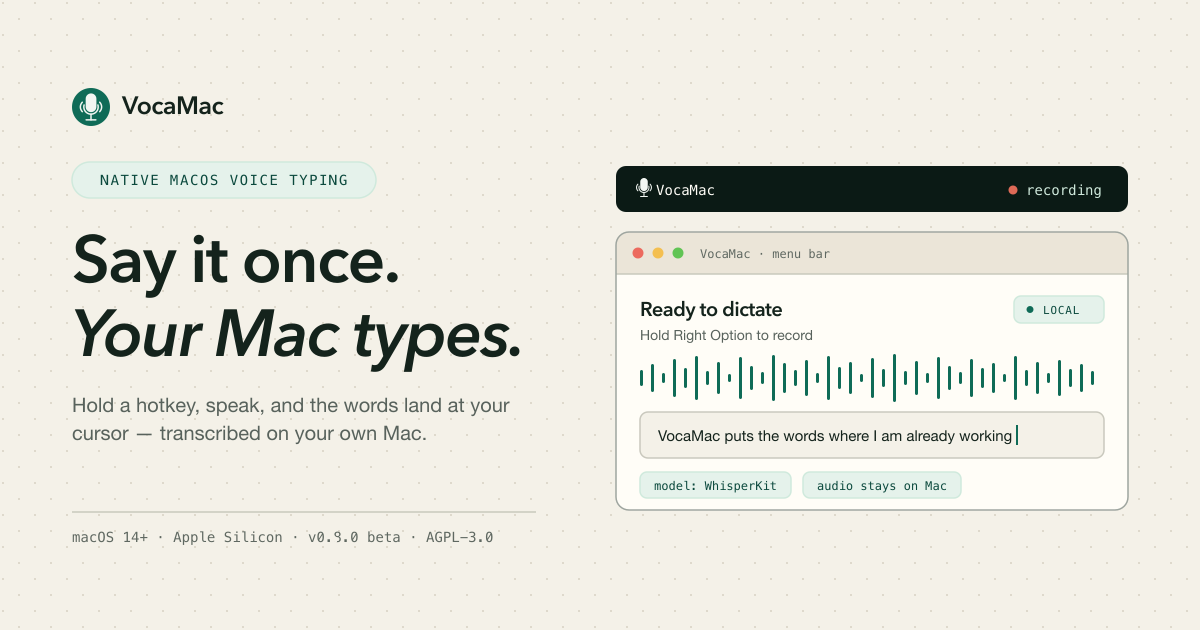
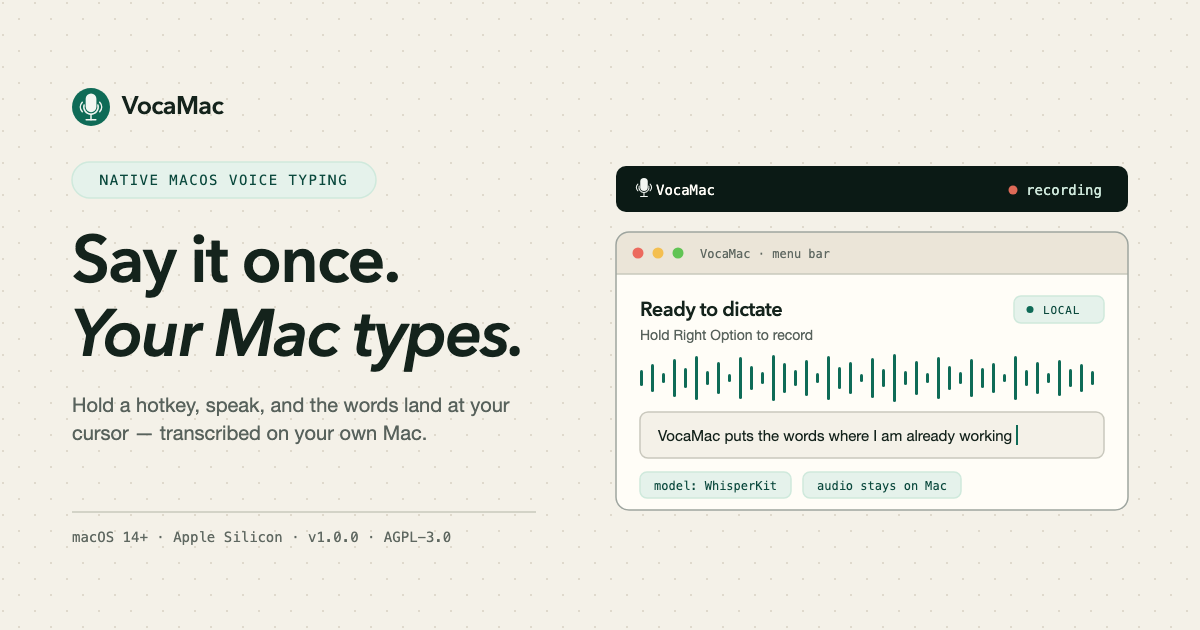
docs: catch remaining VocaMac beta labels

diff --git a/brand/promo/catalog/src/portrait.html b/brand/promo/catalog/src/portrait.html
@@ -196,7 +196,7 @@
       <p class="kicker">voca / macos</p>
       <div class="official">VocaMac</div>
     </div>
-    <span class="chip soft">beta</span>
+    <span class="chip teal">available now</span>
   </div>
   <h1 class="display">vocamac</h1>
   <p class="line">Hold a hotkey, speak, and text appears at the cursor.</p>
@@ -385,7 +385,7 @@
       <div>
         <div class="dname">VocaMac</div>
         <p class="dline">Hold a hotkey, speak, and text appears at the cursor.</p>
-        <div class="dmeta"><span class="chip soft">beta</span><span class="chip">macOS 14+</span><span class="mono sm muted">vocamac.com</span></div>
+        <div class="dmeta"><span class="chip teal">available now</span><span class="chip">macOS 14+</span><span class="mono sm muted">vocamac.com</span></div>
       </div>
       <figure class="qr mini"><img src="qr/qr-mac.png" alt=""><figcaption>scan</figcaption></figure>
     </article>

diff --git a/brand/promo/catalog/src/landscape.html b/brand/promo/catalog/src/landscape.html
@@ -64,7 +64,7 @@
     <p class="kicker">voca / macos</p>
     <div style="display:flex;justify-content:space-between;align-items:center">
       <div class="official">VocaMac</div>
-      <span class="chip soft">beta</span>
+      <span class="chip teal">available now</span>
     </div>
     <h1 class="display">vocamac</h1>
     <p class="line">Hold a hotkey, speak, and text appears at the cursor.</p>
@@ -223,7 +223,7 @@
     </article>
     <article class="dcard">
       <div class="dname">VocaMac</div>
-      <span class="chip soft" style="margin:6px 0">beta</span>
+      <span class="chip teal" style="margin:6px 0">available now</span>
       <figure class="qr mini"><img src="qr/qr-mac.png" alt=""><figcaption>vocamac.com</figcaption></figure>
     </article>
     <article class="dcard">

diff --git a/press/macos-drafts.md b/press/macos-drafts.md
@@ -1,8 +1,8 @@
-# macOS tip drafts (VocaMac v0.9.0)
+# macOS tip drafts (VocaMac v1.0.0)
 
 VocaPress owns these. Draft only. Do not send unless Jatin says send. From vocahq@gmail.com as Jatin. Introduce as Jatin, creator and maintainer. Do not add a name or email closer; the VocaHQ Gmail signature already has the mark and hello@vocahq.com.
 
-Facts used (vocamac.com, product.toml, README, v0.9.0 notes, VocaMac agent 24 Aug 2026): VocaMac is Beta v0.9.0. Not Stable. macOS 14+ Apple Silicon only. No Intel build. AGPL-3.0. Menu bar, no Dock icon. Default hotkey hold Right Option, release to transcribe. Double-tap toggle is in the README. Transcript inserts at the cursor via accessibility. Secure fields and some apps can refuse insertion. Clipboard is saved and restored around injection; do not claim the clipboard is never used. Permissions: Microphone, Accessibility, Input Monitoring. Engines in 0.9.0 (site + product.toml): WhisperKit/Core ML, Parakeet, Apple Speech (macOS 26+), sherpa-onnx (Moonshine, SenseVoice, GigaAM, Canary). First WhisperKit download from Hugging Face. After a model is local, transcription can run without sending audio to a cloud. No Voca account. No Voca-hosted cloud. No iCloud dictation claim. PRODUCT.md VocaMac row still only says WhisperKit / Core ML; for tips cite the site/release catalog, not that short row as the full list. Homebrew cask description "powered by WhisperKit" is stale; do not use it as the engine list. 17 pin-able languages in Settings. Do not say 99+. Custom vocabulary and translate-to-English are WhisperKit-only. Do not say vocabulary works on Parakeet, Apple Speech, or sherpa. 0.9.0 release notes also shipped text snippets and a dictation-tone picker (ten pairs + Off; Voca default for new installs). Those are not on the /features page; cite the release if you mention them. Headless file CLI exists; not the reviewer everyday path; it does not auto-download models. Recording overlay exists. Homebrew from the site: brew tap vocahq/vocamac && brew trust vocahq/vocamac && brew install --cask vocamac (cask is 0.9.0, macos :sonoma). DMG: VocaMac-0.9.0-arm64.dmg (~99 MB), Developer ID signed and notarized, https://github.com/VocaHQ/vocamac/releases/tag/v0.9.0. Gateway is optional self-hosted compute and is not on-device. No feature parity. Screenshots: https://vocamac.com/screenshots. Discord: https://discord.gg/t6muquAJbm. Do not use empty "honest/genuine/real" modifiers (TidBITS).
+Facts used (vocamac.com, product.toml, README, v1.0.0 notes, status updated 23 Sep 2026): VocaMac is v1.0.0, the first stable release (Available now). macOS 14+ Apple Silicon only. No Intel build. AGPL-3.0. Menu bar, no Dock icon. Default hotkey hold Right Option, release to transcribe. Double-tap toggle is in the README. Transcript inserts at the cursor via accessibility. Secure fields and some apps can refuse insertion. Clipboard is saved and restored around injection; do not claim the clipboard is never used. Permissions: Microphone, Accessibility, Input Monitoring. Engines in 0.9.0 (site + product.toml): WhisperKit/Core ML, Parakeet, Apple Speech (macOS 26+), sherpa-onnx (Moonshine, SenseVoice, GigaAM, Canary). First WhisperKit download from Hugging Face. After a model is local, transcription can run without sending audio to a cloud. No Voca account. No Voca-hosted cloud. No iCloud dictation claim. PRODUCT.md VocaMac row still only says WhisperKit / Core ML; for tips cite the site/release catalog, not that short row as the full list. Homebrew cask description "powered by WhisperKit" is stale; do not use it as the engine list. 17 pin-able languages in Settings. Do not say 99+. Custom vocabulary and translate-to-English are WhisperKit-only. Do not say vocabulary works on Parakeet, Apple Speech, or sherpa. 0.9.0 release notes also shipped text snippets and a dictation-tone picker (ten pairs + Off; Voca default for new installs). Those are not on the /features page; cite the release if you mention them. Headless file CLI exists; not the reviewer everyday path; it does not auto-download models. Recording overlay exists. Homebrew from the site: brew tap vocahq/vocamac && brew trust vocahq/vocamac && brew install --cask vocamac (cask is 0.9.0, macos :sonoma). DMG: VocaMac-0.9.0-arm64.dmg (~99 MB), Developer ID signed and notarized, https://github.com/VocaHQ/vocamac/releases/tag/v1.0.0. Gateway is optional self-hosted compute and is not on-device. No feature parity. Screenshots: https://vocamac.com/screenshots. Discord: https://discord.gg/t6muquAJbm. Do not use empty "honest/genuine/real" modifiers (TidBITS).
 
 Every tip must say the code is open source (AGPL-3.0) and that people already file bugs, feature requests, and PRs. Do not invent star counts.
 
@@ -29,17 +29,17 @@ The problem I had: I type all day and I did not want my speech going to a vendor
 
 I use it every day on this Mac, plus the Linux, Windows, and phone siblings. Linux is further along. The code is open source under AGPL-3.0, and people already file bugs, request features, and send PRs.
 
-v0.9.0 is Beta. Hold Right Option, or toggle. WhisperKit / Core ML by default, plus Parakeet, Apple Speech on macOS 26+, and a few CPU-only ONNX models. 17 pin-able languages. Custom vocabulary is WhisperKit-only. Text snippets and a tone picker. Needs Microphone, Accessibility, and Input Monitoring.
+v1.0.0 is the first stable release. Hold Right Option, or toggle. WhisperKit / Core ML by default, plus Parakeet, Apple Speech on macOS 26+, and a few CPU-only ONNX models. 43 pin-able languages. Custom vocabulary guides Whisper, Apple Speech, and Parakeet. Text snippets and a tone picker. Needs Microphone, Accessibility, and Input Monitoring.
 
 What it is not: Intel. App Store. A ChatGPT wrapper. A guarantee that every secure field will accept insertion.
 
-App: VocaMac 0.9.0
+App: VocaMac 1.0.0
 Developer: Jatin Malik / VocaHQ
 Requires: macOS 14+ Apple Silicon
 Price: free (AGPL-3.0)
-Status: Beta, shipping
+Status: Available now (stable, v1.0.0)
 Site: https://vocamac.com
-Install: brew tap vocahq/vocamac && brew install --cask vocamac, or https://github.com/VocaHQ/vocamac/releases/tag/v0.9.0
+Install: brew tap vocahq/vocamac && brew install --cask vocamac, or https://github.com/VocaHQ/vocamac/releases/tag/v1.0.0
 Reviewer license: not needed, the app is free
 Screenshots: https://vocamac.com/screenshots
 Source: https://github.com/VocaHQ/vocamac
@@ -49,19 +49,19 @@ Source: https://github.com/VocaHQ/vocamac
 ### MacStories
 To: viticci@macstories.net, voorhees@macstories.net
 
-Subject: VocaMac v0.9.0, on-device dictation (no paid-review ask)
+Subject: VocaMac v1.0.0, on-device dictation (no paid-review ask)
 
 Hi,
 
 I'm Jatin, creator and maintainer of VocaMac. You only write about apps you have used. I am not offering money.
 
-VocaMac is a menu-bar dictation app, Beta v0.9.0, for Apple Silicon on macOS 14+. Hold Right Option, talk, and text lands at the cursor. Models run on the Mac (WhisperKit / Core ML, plus a few others in 0.9.0). No Voca account. After a local model is downloaded, the audio stays on that machine. I use it every day.
+VocaMac is a menu-bar dictation app, v1.0.0, for Apple Silicon on macOS 14+. Hold Right Option, talk, and text lands at the cursor. Models run on the Mac (WhisperKit / Core ML, plus a few others in 1.0.0). No Voca account. After a local model is downloaded, the audio stays on that machine. I use it every day.
 
 Homebrew or a signed, notarized DMG. Open source, AGPL-3.0. People already open issues and PRs. Secure fields can still refuse insertion. Linux is the mature sibling; Windows and phone are betas too.
 
 - Site: https://vocamac.com
 - Screenshots: https://vocamac.com/screenshots
-- Release: https://github.com/VocaHQ/vocamac/releases/tag/v0.9.0
+- Release: https://github.com/VocaHQ/vocamac/releases/tag/v1.0.0
 - Family: https://vocahq.com
 
 ---
@@ -82,7 +82,7 @@ I use it every day on Apple Silicon Macs (macOS 14+). I also use the Linux relea
 
 - Site: https://vocamac.com
 - Screenshots: https://vocamac.com/screenshots
-- Release: https://github.com/VocaHQ/vocamac/releases/tag/v0.9.0
+- Release: https://github.com/VocaHQ/vocamac/releases/tag/v1.0.0
 - Family: https://vocahq.com
 
 ---
@@ -90,19 +90,19 @@ I use it every day on Apple Silicon Macs (macOS 14+). I also use the Linux relea
 ### 9to5Mac
 To: tips@9to5mac.com
 
-Subject: Indie tip: VocaMac v0.9.0, on-device Mac dictation
+Subject: Indie tip: VocaMac v1.0.0, on-device Mac dictation
 
 Hi,
 
 I'm Jatin, creator and maintainer of VocaMac. Indie App Spotlight / news tip, if that is still the right bucket.
 
-I wanted a Mac dictation app that did not need an Apple ID tied to iCloud dictation, and did not send audio to a vendor. VocaMac is that: menu bar, Apple Silicon, macOS 14+, Beta v0.9.0. Hold Right Option, talk, and the words go into whatever already has the cursor. WhisperKit / Core ML is the default engine. After the first model download from Hugging Face, transcription can stay on the Mac. No Voca account.
+I wanted a Mac dictation app that did not need an Apple ID tied to iCloud dictation, and did not send audio to a vendor. VocaMac is that: menu bar, Apple Silicon, macOS 14+, v1.0.0. Hold Right Option, talk, and the words go into whatever already has the cursor. WhisperKit / Core ML is the default engine. After the first model download from Hugging Face, transcription can stay on the Mac. No Voca account.
 
 I use it every day on this machine. The code is open source, AGPL-3.0, and people already file bugs, ask for features, and send PRs. Homebrew cask or a Developer ID signed, notarized DMG. Linux is the mature sibling. Windows and phone are betas.
 
 - Site: https://vocamac.com
 - Screenshots: https://vocamac.com/screenshots
-- Release: https://github.com/VocaHQ/vocamac/releases/tag/v0.9.0
+- Release: https://github.com/VocaHQ/vocamac/releases/tag/v1.0.0
 - Family: https://vocahq.com
 
 ---
@@ -111,19 +111,19 @@ I use it every day on this machine. The code is open source, AGPL-3.0, and peopl
 To: news@cultofmac.com
 Also: reviews@cultofmac.com
 
-Subject: Review request: VocaMac, on-device Mac dictation (Beta)
+Subject: Review request: VocaMac, on-device Mac dictation
 
 Hi,
 
 I'm Jatin, creator and maintainer of VocaMac. Product review request for a free, open-source Mac app.
 
-If you already have a Mac open to Mail or a browser, that is the test: hold Right Option, talk, and the transcript should appear at the cursor. VocaMac lives in the menu bar. It is Beta v0.9.0, Apple Silicon only, macOS 14+. The model runs on the Mac after download. There is no Voca account and no Voca speech server. AGPL-3.0. Testers already file bugs and send PRs.
+If you already have a Mac open to Mail or a browser, that is the test: hold Right Option, talk, and the transcript should appear at the cursor. VocaMac lives in the menu bar. It is v1.0.0, Apple Silicon only, macOS 14+. The model runs on the Mac after download. There is no Voca account and no Voca speech server. AGPL-3.0. Testers already file bugs and send PRs.
 
 I use it every day, including the Linux release and the Windows and phone betas. Secure fields can still refuse insertion. Install from Homebrew or the signed, notarized DMG.
 
 - Site: https://vocamac.com
 - Screenshots: https://vocamac.com/screenshots
-- Release: https://github.com/VocaHQ/vocamac/releases/tag/v0.9.0
+- Release: https://github.com/VocaHQ/vocamac/releases/tag/v1.0.0
 - Family: https://vocahq.com
 
 ---
@@ -131,19 +131,19 @@ I use it every day, including the Linux release and the Windows and phone betas.
 ### Macworld
 To: tips@macworld.com (verify current tips inbox on macworld.com before send)
 
-Subject: Review request: VocaMac v0.9.0
+Subject: Review request: VocaMac v1.0.0
 
 Hi,
 
 I'm Jatin, creator and maintainer of VocaMac. Review request, not a guest post.
 
-VocaMac is the Mac client in a small family of on-device dictation apps. On Apple Silicon (macOS 14+) it sits in the menu bar. You hold Right Option, talk, and text inserts at the cursor in the app you were already using. Speech-to-text runs on the Mac after you download a model. No Voca account. Beta v0.9.0.
+VocaMac is the Mac client in a small family of on-device dictation apps. On Apple Silicon (macOS 14+) it sits in the menu bar. You hold Right Option, talk, and text inserts at the cursor in the app you were already using. Speech-to-text runs on the Mac after you download a model. No Voca account. v1.0.0.
 
 I use it every day. The source is AGPL-3.0, and people already file bugs, request features, and send PRs. Homebrew or a Developer ID signed, notarized DMG. Linux is further along. Windows and phone are betas. Secure fields may refuse insertion.
 
 - Site: https://vocamac.com
 - Screenshots: https://vocamac.com/screenshots
-- Release: https://github.com/VocaHQ/vocamac/releases/tag/v0.9.0
+- Release: https://github.com/VocaHQ/vocamac/releases/tag/v1.0.0
 - Family: https://vocahq.com
 
 ---
@@ -157,13 +157,13 @@ Hi,
 
 I'm Jatin, creator and maintainer of VocaMac. You cover Homebrew and small Mac tools. This is one I actually run.
 
-Install is the usual path: brew tap vocahq/vocamac, then the cask, or grab the signed DMG from GitHub. After that it lives in the menu bar. Hold Right Option, talk, and text lands at the cursor. First WhisperKit download comes from Hugging Face. After that, audio can stay on the Mac. No Voca account. Beta, Apple Silicon, macOS 14+.
+Install is the usual path: brew tap vocahq/vocamac, then the cask, or grab the signed DMG from GitHub. After that it lives in the menu bar. Hold Right Option, talk, and text lands at the cursor. First WhisperKit download comes from Hugging Face. After that, audio can stay on the Mac. No Voca account. Stable, Apple Silicon, macOS 14+.
 
 Open source, AGPL-3.0. People already file bugs and send PRs. I use it every day. Linux is the mature sibling.
 
 - Site: https://vocamac.com
 - Screenshots: https://vocamac.com/screenshots
-- Release: https://github.com/VocaHQ/vocamac/releases/tag/v0.9.0
+- Release: https://github.com/VocaHQ/vocamac/releases/tag/v1.0.0
 - Family: https://vocahq.com
 
 ---
@@ -179,11 +179,11 @@ I'm Jatin, creator and maintainer of VocaMac. Personal note, not a sponsor thing
 
 I built a menu-bar dictation app because I was tired of sending speech somewhere else. Hold Right Option, talk, and the Mac types at the cursor. Local models. No Voca account. I use it every day. Open source under AGPL-3.0, and people already file bugs, ask for features, and send PRs.
 
-Beta on Apple Silicon, macOS 14+. Homebrew or a notarized DMG. Linux is further along in the family.
+Stable (v1.0.0) on Apple Silicon, macOS 14+. Homebrew or a notarized DMG. Linux is further along in the family.
 
 - Site: https://vocamac.com
 - Screenshots: https://vocamac.com/screenshots
-- Release: https://github.com/VocaHQ/vocamac/releases/tag/v0.9.0
+- Release: https://github.com/VocaHQ/vocamac/releases/tag/v1.0.0
 - Family: https://vocahq.com
 
 ---
@@ -191,19 +191,19 @@ Beta on Apple Silicon, macOS 14+. Homebrew or a notarized DMG. Linux is further 
 ### AppleInsider
 To: tips@appleinsider.com
 
-Subject: News tip: VocaMac v0.9.0, on-device Mac dictation
+Subject: News tip: VocaMac v1.0.0, on-device Mac dictation
 
 Hi,
 
-I'm Jatin, creator and maintainer of VocaMac. News tip on a shipping Beta, not a rumor.
+I'm Jatin, creator and maintainer of VocaMac. News tip on a shipping stable release, not a rumor.
 
-v0.9.0 is out for Apple Silicon on macOS 14+. Menu bar, no Dock icon. Hold Right Option and the Mac transcribes into the focused app. Engines start with WhisperKit / Core ML. No Voca account, and audio is not sent to a vendor cloud. Signed, notarized DMG or Homebrew.
+v1.0.0 is out for Apple Silicon on macOS 14+. Menu bar, no Dock icon. Hold Right Option and the Mac transcribes into the focused app. Engines start with WhisperKit / Core ML. No Voca account, and audio is not sent to a vendor cloud. Signed, notarized DMG or Homebrew.
 
 I use it every day. The code is open source, AGPL-3.0. Bugs, feature asks, and PRs already show up on GitHub. Linux is the mature sibling. Windows and phone are betas.
 
 - Site: https://vocamac.com
 - Screenshots: https://vocamac.com/screenshots
-- Release: https://github.com/VocaHQ/vocamac/releases/tag/v0.9.0
+- Release: https://github.com/VocaHQ/vocamac/releases/tag/v1.0.0
 - Family: https://vocahq.com
 
 ---
@@ -211,19 +211,19 @@ I use it every day. The code is open source, AGPL-3.0. Bugs, feature asks, and P
 ### MacRumors
 To: tips@macrumors.com
 
-Subject: Product tip: VocaMac, local Mac dictation (Beta)
+Subject: Product tip: VocaMac, local Mac dictation
 
 Hi,
 
 I'm Jatin, creator and maintainer of VocaMac. Product info for coverage, not an ad.
 
-If you want a one-line: free, open-source, on-device dictation for Apple Silicon Macs. VocaMac v0.9.0 is Beta. Hold Right Option, talk, and text goes to the cursor. Models run locally. No Voca account. Homebrew or a notarized DMG.
+If you want a one-line: free, open-source, on-device dictation for Apple Silicon Macs. VocaMac 1.0 is out. Hold Right Option, talk, and text goes to the cursor. Models run locally. No Voca account. Homebrew or a notarized DMG.
 
 I use it every day. AGPL-3.0, and people already file bugs and send PRs. Linux is further along. Windows and phone are betas. Secure fields can refuse insertion. Not on the App Store.
 
 - Site: https://vocamac.com
 - Screenshots: https://vocamac.com/screenshots
-- Release: https://github.com/VocaHQ/vocamac/releases/tag/v0.9.0
+- Release: https://github.com/VocaHQ/vocamac/releases/tag/v1.0.0
 - Family: https://vocahq.com
 
 ---
@@ -237,11 +237,11 @@ Hi,
 
 I'm Jatin, creator and maintainer of VocaMac. I know you pick "best of" apps on your own schedule. Putting this on the pile rather than asking for a slot.
 
-I built VocaMac for the same reason I built the Linux one: I wanted to talk into Mail, a browser, or Notes without handing the recording to a company. Menu bar. Hold Right Option. Text at the cursor. Local models. No Voca account. Beta v0.9.0, Apple Silicon, macOS 14+.
+I built VocaMac for the same reason I built the Linux one: I wanted to talk into Mail, a browser, or Notes without handing the recording to a company. Menu bar. Hold Right Option. Text at the cursor. Local models. No Voca account. v1.0.0, Apple Silicon, macOS 14+.
 
 I use it every day. Open source, AGPL-3.0. People already file bugs, request features, and send PRs. Homebrew or signed DMG. Linux is the mature sibling.
 
 - Site: https://vocamac.com
 - Screenshots: https://vocamac.com/screenshots
-- Release: https://github.com/VocaHQ/vocamac/releases/tag/v0.9.0
+- Release: https://github.com/VocaHQ/vocamac/releases/tag/v1.0.0
 - Family: https://vocahq.com

diff --git a/brand/vocamac/README.md b/brand/vocamac/README.md
@@ -2,7 +2,7 @@
 
 | File | Use |
 | --- | --- |
-| `vocamac-og.png` / `.svg` | Open Graph / social for vocamac.com (v0.9.0 beta) |
+| `vocamac-og.png` / `.svg` | Open Graph / social for vocamac.com (v1.0.0, same as `web/static/og-image.*` in VocaHQ/vocamac) |
 | `vocamac-enterprise-security.svg` | Managed Macs `/enterprise/` glyph. Prefer SVG on the page. |
 | `vocamac-enterprise-security.png` | Raster 512. Also `-256` / `-128`. |
 

diff --git a/brand/promo/copy/reddit.md b/brand/promo/copy/reddit.md
@@ -47,7 +47,7 @@ https://vocahq.com
 
 Title: VocaMac 1.0: on-device dictation for Apple Silicon, macOS 14+
 
-Body: Menu-bar / hotkey dictation. WhisperKit / Core ML. Homebrew or DMG. Beta, not GA.
+Body: Menu-bar / hotkey dictation. WhisperKit / Core ML. Homebrew or DMG. First stable release.
 
 https://vocamac.com
 
